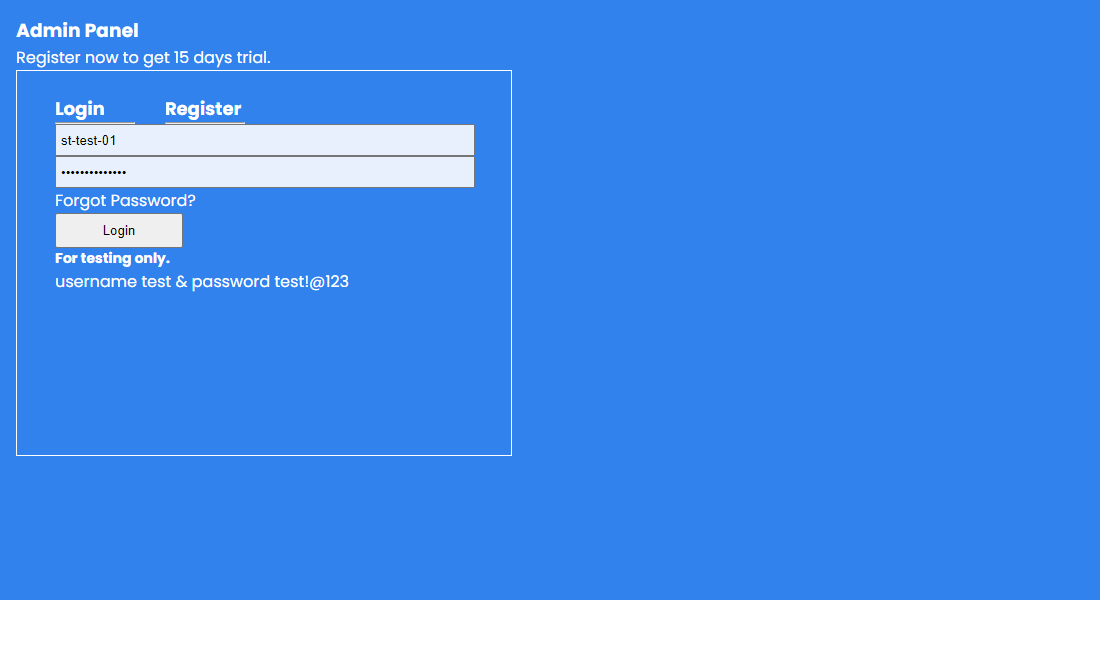
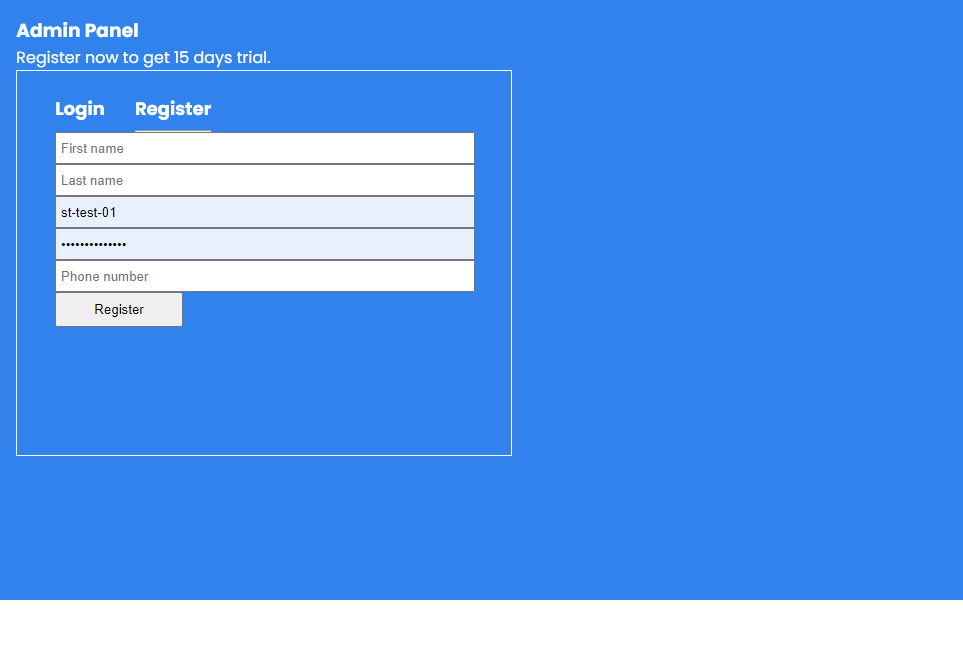
fix: added conditional to AccessNav hr

Changed region(s): [[0.0312, 0.1502, 0.4984, 0.5105], [0.0, 0.03, 0.2804, 0.1201], [0.4361, 0.6607, 0.4673, 0.6907]]

diff --git a/src/features/Home/_components/Intro/Form/_components/AccessNav/AccessNav.tsx b/src/features/Home/_components/Intro/Form/_components/AccessNav/AccessNav.tsx
@@ -1,8 +1,11 @@
 import { FC, useEffect, useState } from 'react';
 import styles from './accessNav.module.css';
 
+export type TPage = 'login'|'register';
+
 interface IAccessNavProps {
-  handleChangeAccess: (arg0:string)=>void;
+  handleChangeAccess: (arg0:TPage)=>void;
+  currAccess: 'login' | 'register';
 };
 
 const AccessNav: FC<IAccessNavProps> = (props) => {
@@ -11,11 +14,11 @@ const AccessNav: FC<IAccessNavProps> = (props) => {
     <div className={styles['access-nav']}>
       <div className={styles['nav-button']}>
         <span onClick={() => props.handleChangeAccess('login')}>Login</span>
-        <hr />
+        {props.currAccess === 'login' && <hr />}
       </div>
       <div className={styles['nav-button']}>
         <span onClick={() => props.handleChangeAccess('register')}>Register</span>
-        <hr />
+        {props.currAccess === 'register' && <hr />}
       </div>
     </div>
   )

diff --git a/src/features/Home/_components/Intro/Form/_components/FormBox/FormBox.tsx b/src/features/Home/_components/Intro/Form/_components/FormBox/FormBox.tsx
@@ -1,5 +1,5 @@
 import { FC, useEffect, useState } from 'react';
-import AccessNav from '../AccessNav/AccessNav';
+import AccessNav, { TPage } from '../AccessNav/AccessNav';
 import Login from '../Login/Login';
 import Register from '../Register/Register';
 import styles from './formBox.module.css';
@@ -8,10 +8,10 @@ interface IFormBoxProps {
 };
 
 const FormBox: FC<IFormBoxProps> = (props) => {
-  const [accessPage, setAccessPage] = useState('login');
+  const [accessPage, setAccessPage] = useState<TPage>('login');
 
 
-  function handleChangeAccess(page:string):void {
+  function handleChangeAccess(page:TPage):void {
     return setAccessPage(page);
   };
 
@@ -19,6 +19,7 @@ const FormBox: FC<IFormBoxProps> = (props) => {
     <div className={styles['form-box']}>
       <AccessNav
         handleChangeAccess={handleChangeAccess}
+        currAccess={accessPage}
       />
 
       {

diff --git a/src/features/Home/_components/Intro/Form/_components/AccessNav/accessNav.module.css b/src/features/Home/_components/Intro/Form/_components/AccessNav/accessNav.module.css
@@ -3,7 +3,6 @@
   gap: 1.875rem;
   font-size: 1.125rem;
   font-weight: bold;
-  text-decoration: underlined;
   cursor: pointer;
   user-select: none;
 }
@@ -13,5 +12,9 @@
 }
 
 .access-nav span {
-  margin-right: 1.875rem;
+  margin: auto;
+}
+
+.access-nav hr {
+  margin-top: 0.5rem;
 }
